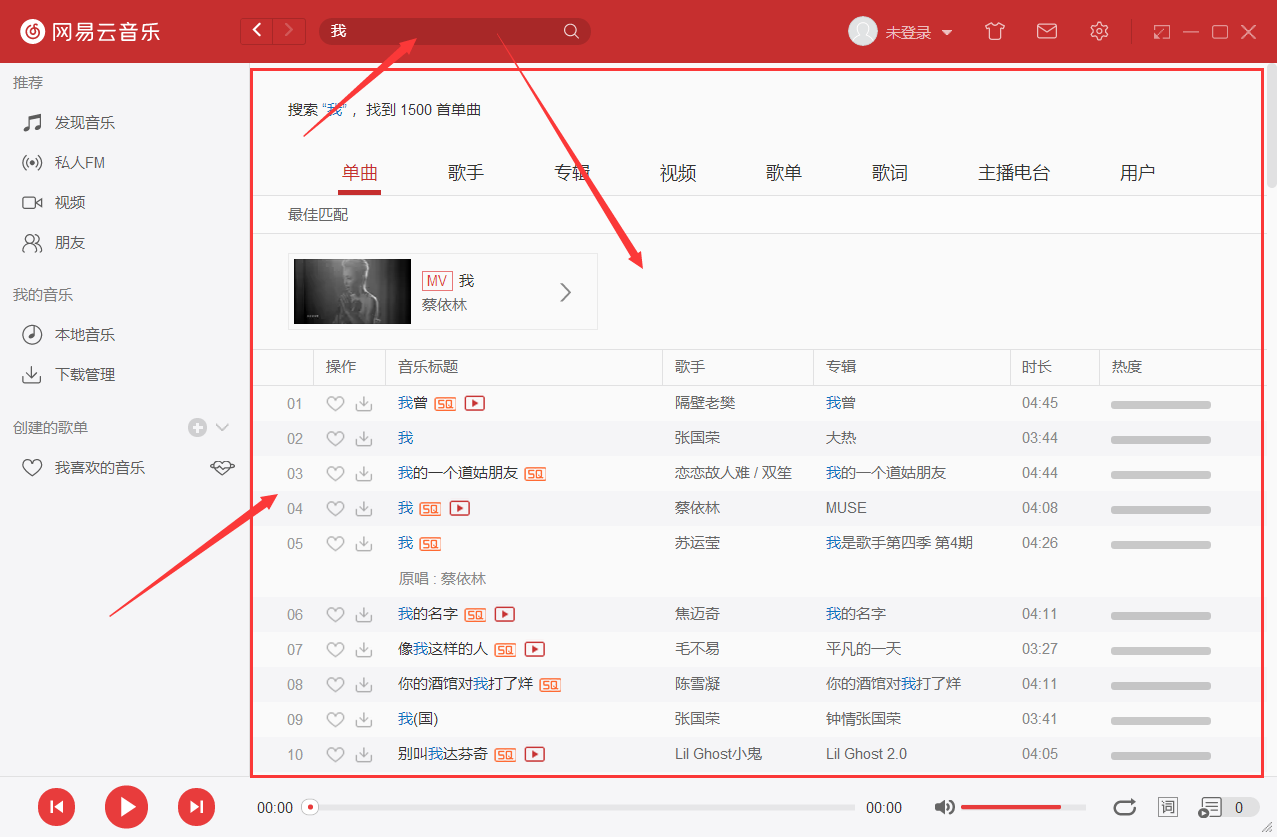
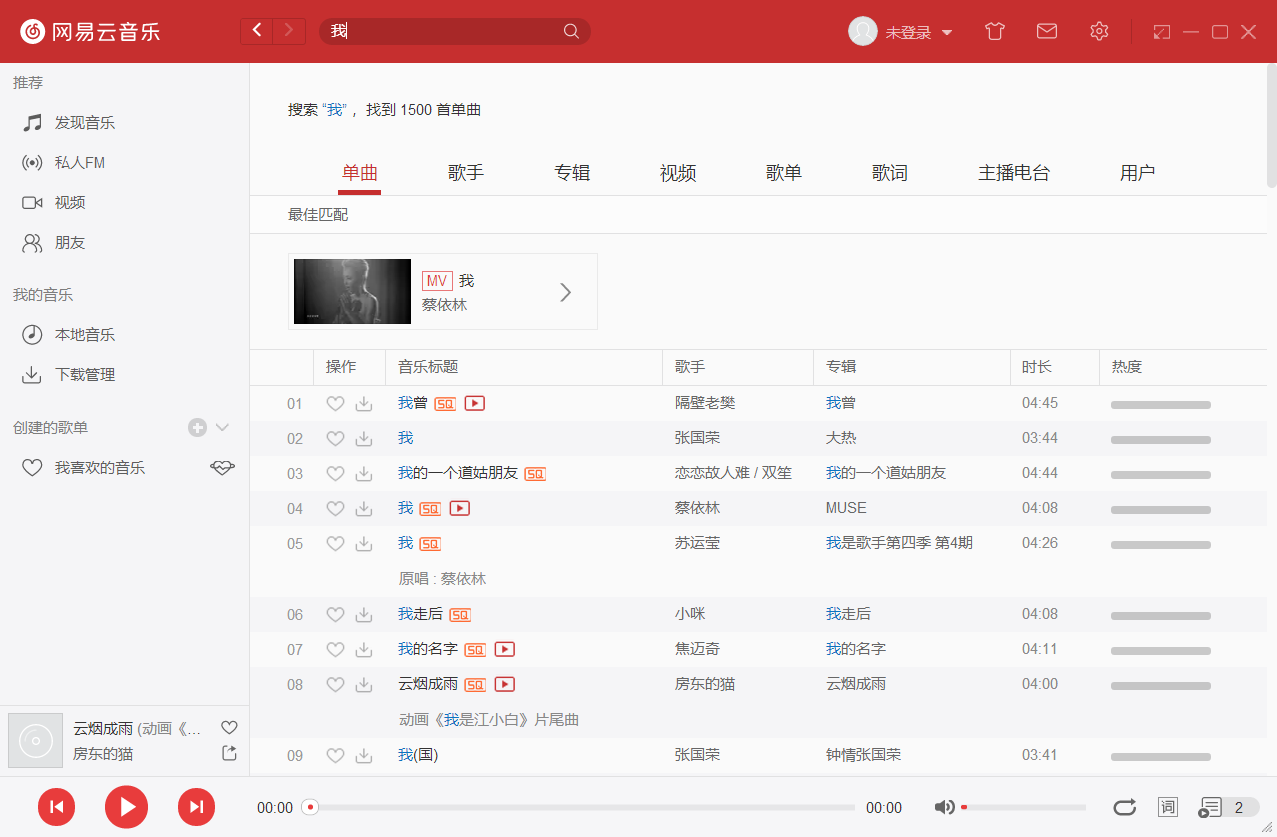
增加播放和音乐详情页组件

diff --git a/ele-vue-learning/src/renderer/assets/common/icon.css b/ele-vue-learning/src/renderer/assets/common/icon.css
@@ -1,10 +1,10 @@
 @font-face {font-family: "iconfont";
-  src: url('//at.alicdn.com/t/font_1232417_mhomqpdsgfh.eot?t=1559959742001'); /* IE9 */
-  src: url('//at.alicdn.com/t/font_1232417_mhomqpdsgfh.eot?t=1559959742001#iefix') format('embedded-opentype'), /* IE6-IE8 */
[1 lines of base64/hex data omitted]
-  url('//at.alicdn.com/t/font_1232417_mhomqpdsgfh.woff?t=1559959742001') format('woff'),
-  url('//at.alicdn.com/t/font_1232417_mhomqpdsgfh.ttf?t=1559959742001') format('truetype'), /* chrome, firefox, opera, Safari, Android, iOS 4.2+ */
-  url('//at.alicdn.com/t/font_1232417_mhomqpdsgfh.svg?t=1559959742001#iconfont') format('svg'); /* iOS 4.1- */
+  src: url('//at.alicdn.com/t/font_1232417_52xudxa1erf.eot?t=1560416075707'); /* IE9 */
+  src: url('//at.alicdn.com/t/font_1232417_52xudxa1erf.eot?t=1560416075707#iefix') format('embedded-opentype'), /* IE6-IE8 */
[1 lines of base64/hex data omitted]
+  url('//at.alicdn.com/t/font_1232417_52xudxa1erf.woff?t=1560416075707') format('woff'),
+  url('//at.alicdn.com/t/font_1232417_52xudxa1erf.ttf?t=1560416075707') format('truetype'), /* chrome, firefox, opera, Safari, Android, iOS 4.2+ */
+  url('//at.alicdn.com/t/font_1232417_52xudxa1erf.svg?t=1560416075707#iconfont') format('svg'); /* iOS 4.1- */
 }
 
 .iconfont {
@@ -43,6 +43,10 @@
   content: "\e611";
 }
 
+.iconxin:before {
+  content: "\e82a";
+}
+
 .iconheart:before {
   content: "\e639";
 }
@@ -51,8 +55,16 @@
   content: "\e6e1";
 }
 
+.iconplay:before {
+  content: "\e612";
+}
+
 .iconyinyue:before {
   content: "\e680";
+}
+
+.iconplay1:before {
+  content: "\e80f";
 }
 
 .icondaojishi:before {
@@ -69,6 +81,18 @@
 
 .iconzuixiaohua:before {
   content: "\e61c";
+}
+
+.iconxiayiqu:before {
+  content: "\e7ff";
+}
+
+.iconshangyiqu:before {
+  content: "\e800";
+}
+
+.iconxiazai:before {
+  content: "\e668";
 }
 
 .iconshangjiantou:before {

diff --git a/ele-vue-learning/src/renderer/components/searchMain.vue b/ele-vue-learning/src/renderer/components/searchMain.vue
@@ -1,0 +1,91 @@
+<template>
+  <div class="middle-container">
+    <div class="middle-header">搜索我，找到1500首单曲</div>
+    <div class="table">
+      <table border="1">
+        <tr>
+          <th style="min-width:30px"></th>
+          <th style="min-width:60px">操作</th>
+          <th style="min-width:150px">音乐标题</th>
+          <th style="min-width:120px">歌手</th>
+          <th style="min-width:150px">专辑</th>
+          <th style="min-width:65px">时长</th>
+          <th >热度</th>
+        </tr>
+        <tr>
+          <td>01</td>
+          <td class="heartDown">
+            <i class="iconfont iconxin"></i>
+            <i class="iconfont iconxiazai"></i>
+          </td>
+          <td>我曾</td>
+          <td>隔壁老樊</td>
+          <td>我曾</td>
+          <td>04:45</td>
+          <td>
+            <el-progress :percentage="50" color="gray"></el-progress>
+          </td>
+        </tr>
+
+        <tr>
+          <td>01</td>
+          <td>
+            <i class="iconfont iconxin"></i>
+            <i class="iconfont iconxiazai"></i>
+          </td>
+          <td>我曾</td>
+          <td>隔壁老樊</td>
+          <td>我曾</td>
+          <td>04:45</td>
+          <td></td>
+        </tr>
+
+        <tr>
+          <td>01</td>
+          <td>
+            <i class="iconfont iconxin"></i>
+            <i class="iconfont iconxiazai"></i>
+          </td>
+          <td>我曾</td>
+          <td>隔壁老樊</td>
+          <td>我曾</td>
+          <td>04:45</td>
+          <td></td>
+        </tr>
+      </table>
+    </div>
+  </div>
+</template>
+
+<script>
+export default {};
+</script>
+ <style lang='scss'>
+@import "../assets/common/common.scss";
+@import "../assets/common/icon.css";
+.middle-container {
+  height: calc(100vh - 60px);
+  //    background-color: aqua;
+//   min-width: 800px;
+  .middle-header {
+    padding: 30px;
+  }
+  .table {
+    table {
+      .el-progress__text {
+        display: none;
+      }
+      th {
+        line-height: 2.5;
+      }
+      td,
+      th {
+        text-align: center;
+      }
+      width: 100%;
+    }
+  }
+}
+</style>
+ 
+

diff --git a/ele-vue-learning/src/renderer/components/header/header.vue b/ele-vue-learning/src/renderer/components/header/header.vue
@@ -10,9 +10,9 @@
         <i class="iconfont iconarrow-right"></i>
       </div>
       <div class="right no-drag">
-        <input type="text" v-model="input" placeholder="搜索音乐，视频，歌词，电台" @click="getHot">
+        <input type="text" v-model="input" @keyup.enter="searchClick" placeholder="搜索音乐，视频，歌词，电台" @click="getHot"  >
         <!-- <el-input v-model="input" placeholder="搜索音乐，视频，歌词，电台" @click="isShowModel=true"></el-input> -->
-        <i class="iconfont iconsearch" @click="handleChange"></i>
+        <i class="iconfont iconsearch" @click="searchClick"></i>
         <headerSearch v-if="isShowModel" :songList="songList" :hotList="hotList"></headerSearch>
       </div>
     </div>
@@ -56,10 +56,13 @@ export default {
   },
   watch: {
     input: function(val) {
-      debounce(this.handleChange, 500)(val);
+      debounce(this.searchHandleChange, 500)(val);
     }
   },
   methods: {
+    searchClick(){
+
+    },
     getHot() {
       this.isShowModel = !this.isShowModel;
       http.get("/search/hot").then(({ data }) => {
@@ -67,7 +70,7 @@ export default {
         this.hotList = data.result.hots;
       });
     },
-    handleChange(val) {
+    searchHandleChange(val) {
       if (val) {
         console.log("123", val);
         http.get("/search", { keywords: val }).then(({ data }) => {
@@ -100,7 +103,7 @@ export default {
   //用来控制禁止拖放的地方
   -webkit-app-region: no-drag;
 }
-$red: #c62f2f;
+
 .header {
   color: #eec1c1;
   position: relative;

diff --git a/ele-vue-learning/src/renderer/components/player.vue b/ele-vue-learning/src/renderer/components/player.vue
@@ -1,0 +1,61 @@
+<template>
+  <div class="play">
+    <div class="left">
+      <div>
+        <i class="iconfont test iconshangyiqu" style="font-size:20px"></i>
+      </div>
+      <div>
+        <i class="iconfont iconplay1" style="font-size:30px"></i>
+      </div>
+      <div>
+        <i class="iconfont iconxiayiqu" style="font-size:20px"></i>
+      </div>
+    </div>
+    <div class="middle">
+      <audio>
+       
+        <source src="horse.mp3" type="audio/mpeg">
+      </audio>
+    </div>
+  </div>
+</template>
+
+<script>
+export default {};
+</script>
+<style <style lang='scss'>
+@import "../assets/common/common.scss";
+@import "../assets/common/icon.css";
+.play {
+  border-top: 1px solid rgb(185, 184, 184);
+  position: fixed;
+  bottom: 0;
+  width: 100%;
+  height: 50px;
+  background-color: $back;
+  display: flex;
+  align-items: center;
+  .left {
+    div {
+      height: 50px;
+      display: flex;
+      justify-content: center;
+      align-items: center;
+
+      i {
+        line-height: 1;
+        background-color: rgb(226, 48, 48);
+        color: white;
+        border-radius: 50%;
+        padding: 5px;
+      }
+    }
+
+    width: 250px;
+    display: flex;
+    justify-content: space-around;
+  }
+}
+</style>
+ 
+

diff --git a/ele-vue-learning/src/renderer/App.vue b/ele-vue-learning/src/renderer/App.vue
@@ -1,24 +1,41 @@
 <template>
   <div id="app">
     <Header></Header>
-    <div>
-      <recommend></recommend>
+    <div class="middle">
+      <recommend class="recommend"></recommend>
+      <searchMain class="searchMain"></searchMain>
+          <!-- <router-view></router-view> -->
+
     </div>
-    <!-- <router-view></router-view> -->
+    <player></player>
   </div>
 </template>
 
 <script>
-import Header from './components/header/header'
-import recommend from './components/recommend/recommend'
+import Header from "./components/header/header";
+import recommend from "./components/recommend/recommend";
+import searchMain from "./components/searchMain";
+import player from "./components/player";
 
-  export default {
-    name: 'ele-vue-learning',
-    components:{Header,recommend}
-    
-  }
+export default {
+  name: "ele-vue-learning",
+  components: { Header, recommend, searchMain ,player}
+};
 </script>
 
-<style>
-  /* CSS */
+ <style lang='scss'>
+// @import "../assets/common/common.scss";
+// @import "../assets/common/icon.css";
+#app {
+  min-width: 1080px;
+  min-height: 670px;
+  overflow: hidden;
+}
+.middle {
+  display: flex;
+  // .recommend{width: 250px;}
+  .searchMain {
+    flex: 1;
+  }
+}
 </style>

diff --git a/ele-vue-learning/src/renderer/router/index.js b/ele-vue-learning/src/renderer/router/index.js
@@ -5,14 +5,14 @@ Vue.use(Router)
 
 export default new Router({
   routes: [
-    {
-      path: '/',
-      name: 'landing-page',
-      component: require('@/components/LandingPage').default
-    },
-    {
-      path: '*',
-      redirect: '/'
-    }
+    // {
+    //   path: '/',
+    //   name: 'landing-page',
+    //   component: require('@/components/LandingPage').default
+    // },
+    // {
+    //   path: '*',
+    //   redirect: '/'
+    // }
   ]
 })

diff --git a/ele-vue-learning/src/renderer/pages/template.vue b/ele-vue-learning/src/renderer/pages/template.vue
@@ -7,7 +7,8 @@
 export default {};
 </script>
 <style <style lang='scss'>
-   
+   @import "../assets/common/common.scss";
+@import "../assets/common/icon.css";
 
   
 </style>

diff --git a/ele-vue-learning/src/renderer/assets/common/common.scss b/ele-vue-learning/src/renderer/assets/common/common.scss
@@ -56,3 +56,4 @@ table { border-collapse: collapse; border-spacing: 0; }
   *zoom: 1;
 }
 $back:#f5f5f7;
+$red: #c62f2f;
